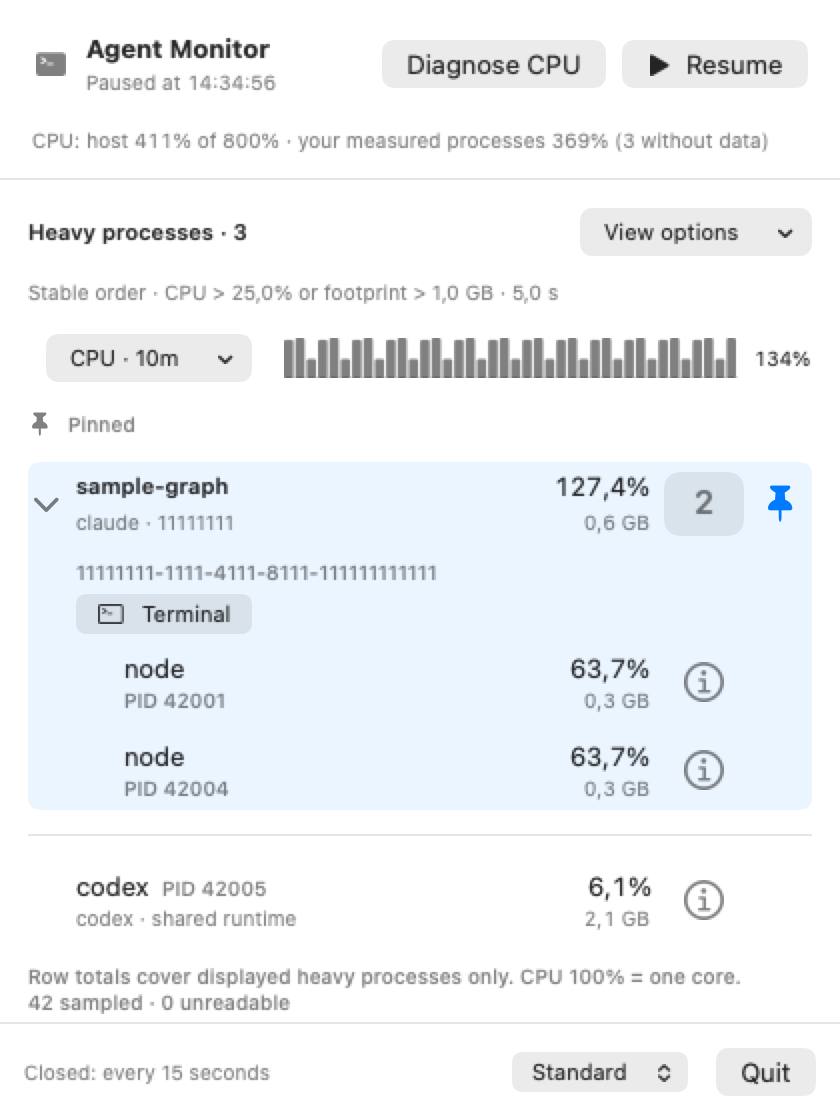
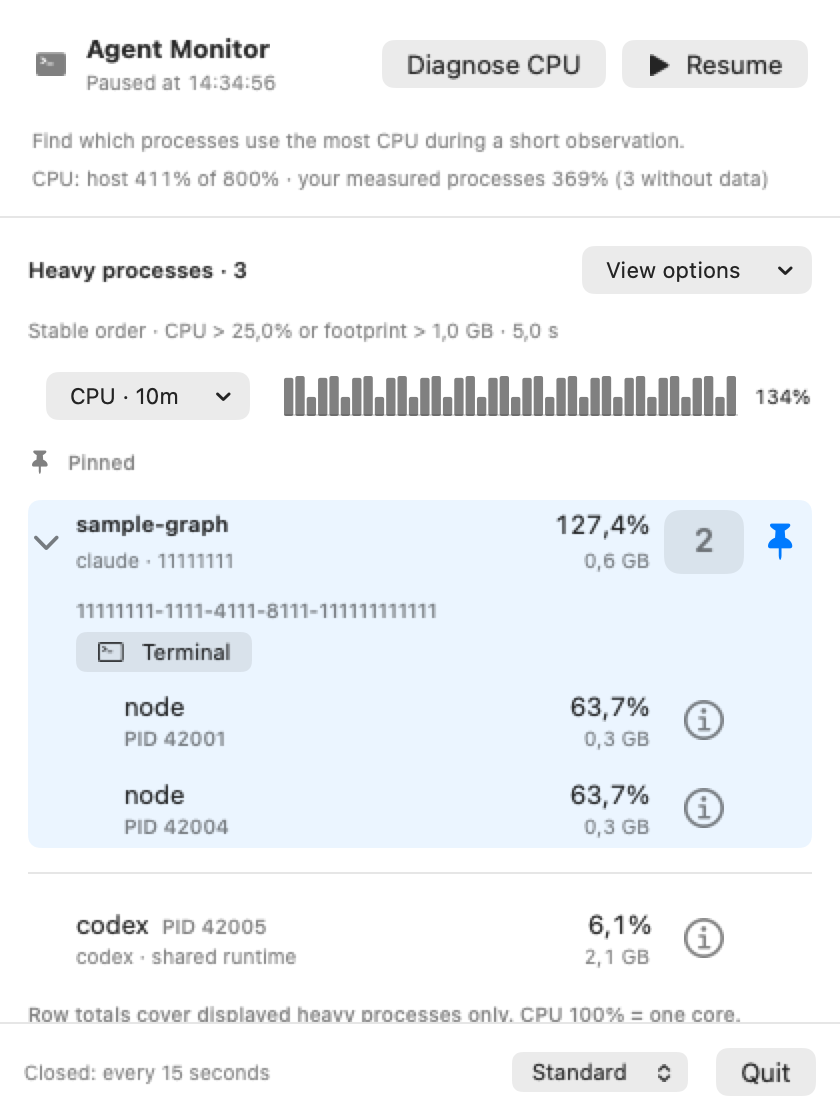
feat(diagnosis): explain results and copy completed native reports
Keep the copied report tied to the completed observation, including identity and coverage evidence. Copying is explicit and performs no further collection or actions.

diff --git a/Sources/AgentMonitorPresentation/DiagnosisViewState.swift b/Sources/AgentMonitorPresentation/DiagnosisViewState.swift
@@ -7,6 +7,12 @@ public struct DiagnosisViewState: Equatable, Sendable {
     public internal(set) var content: [ReportLine] = []
     public var isVisible: Bool { phase != .hidden }
 
+    public static let purpose = "Find which processes use the most CPU during a short observation."
+    public static let whenToRun =
+        "Run while the slowdown is happening; work that ended earlier cannot be recovered."
+    public static var startHelp: String { "\(purpose) \(whenToRun) \(help)" }
+    public static let interpretation =
+        "Start with the largest CPU-seconds contributors. Use their PID and session evidence to find the workload in the live table; check coverage and Monitor helper flags before drawing conclusions."
     public static let help =
         "Measures from now: three one-second waits plus scan time; provider lookup may add up to three seconds per queried provider."
     public static let keyHint = "d CPU diagnosis"
@@ -25,7 +31,11 @@ public struct DiagnosisViewState: Equatable, Sendable {
     public var lines: [ReportLine] {
         switch phase {
         case .hidden: []
-        case .collecting: [ReportLine(Self.help), ReportLine("Window starts at invocation.", style: .muted)]
+        case .collecting:
+            [
+                ReportLine(Self.purpose), ReportLine(Self.whenToRun), ReportLine(Self.help),
+                ReportLine("Window starts at invocation.", style: .muted),
+            ]
         case .completed: content
         case .failed: [ReportLine(DiagnosisText.collectionFailure, style: .failure)]
         case .cancelled:
@@ -34,10 +44,16 @@ public struct DiagnosisViewState: Equatable, Sendable {
         }
     }
 
+    public var reportText: String? {
+        guard phase == .completed else { return nil }
+        return content.map(\.text).joined(separator: "\n")
+    }
+
     static func resultLines(_ value: CPUDiagnosis) -> [ReportLine] {
         [
             ReportLine(
-                "Window started at invocation; result stays fixed until rerun or dismissal.", style: .muted)
+                "Window started at invocation; result stays fixed until rerun or dismissal.", style: .muted),
+            ReportLine(Self.interpretation),
         ]
             + DiagnosisText.lines(value, includingHelperFlags: true).map { ReportLine($0) }
             + [

diff --git a/Tests/AgentMonitorMenuBarTests/MenuBarDiagnosisTests.swift b/Tests/AgentMonitorMenuBarTests/MenuBarDiagnosisTests.swift
@@ -163,3 +163,46 @@ private actor NativeDiagnosisGate {
     if phase == .collecting || phase == .cancelled { await gate.release(try await menuBarDiagnosisFixture()) }
     await model.stop()
 }
+
+@Test @MainActor func diagnosisCopiesOnlyTheCompletedFixedReportAndClearsStatusOnRerun() async throws {
+    let gate = NativeDiagnosisGate()
+    let model = MenuBarModel(diagnosisSource: { try await gate.run() }, source: { _, _, _, _ in })
+    var copied: [String] = []
+    func copy() -> Bool {
+        model.copyDiagnosisReport(using: {
+            copied.append($0)
+            return true
+        })
+    }
+    #expect(!copy())
+    model.open()
+    #expect(model.beginDiagnosis())
+    await gate.waitUntilStarted()
+    #expect(!copy())
+    #expect(copied.isEmpty)
+    await gate.release(try await menuBarDiagnosisFixture())
+    await model.diagnosis.waitForCompletion()
+    #expect(copy())
+    let text = try #require(copied.first)
+    #expect(text == model.diagnosis.state.reportText)
+    #expect(text.contains("42001/1 [Monitor helper]"))
+    #expect(text.contains("CPU diagnosis:") && text.contains("Host coverage:"))
+    #expect(text.contains("not proof of current use"))
+    #expect(text.contains("CPU-s"))
+    #expect(model.diagnosisCopyStatus == "Copied")
+    let failedCopy = model.copyDiagnosisReport(using: { _ in false })
+    #expect(!failedCopy)
+    #expect(model.diagnosisCopyStatus == "Copy failed")
+    #expect(model.beginDiagnosis())
+    await gate.waitUntilStarted()
+    #expect(model.diagnosisCopyStatus == nil)
+    #expect(!copy())
+    model.diagnosis.cancel()
+    #expect(!copy())
+    await gate.release(try await menuBarDiagnosisFixture())
+    await model.diagnosis.waitForCompletion()
+    model.close()
+    #expect(!copy())
+    #expect(copied.count == 1)
+    await model.stop()
+}

diff --git a/Sources/AgentMonitorMenuBar/MenuBarView.swift b/Sources/AgentMonitorMenuBar/MenuBarView.swift
@@ -41,7 +41,7 @@ struct MenuBarView: View {
                             !model.isOpen || model.report.actionPanel != nil
                                 || model.diagnosis.state.isRunning
                         )
-                        .help(DiagnosisViewState.help)
+                        .help(DiagnosisViewState.startHelp)
                     Button(
                         model.report.frozen ? "Resume" : "Pause",
                         systemImage: model.report.frozen ? "play.fill" : "pause.fill"
@@ -52,6 +52,10 @@ struct MenuBarView: View {
             }
             .padding()
             if !model.diagnosis.state.isVisible {
+                Text(DiagnosisViewState.purpose)
+                    .font(.caption).foregroundStyle(.secondary)
+                    .fixedSize(horizontal: false, vertical: true)
+                    .padding(.horizontal).padding(.bottom, 6)
                 Text(CPUContext.text(model.report.snapshot?.cpuAccounting))
                     .font(.caption).foregroundStyle(.secondary).monospacedDigit()
                     .fixedSize(horizontal: false, vertical: true)
@@ -64,7 +68,9 @@ struct MenuBarView: View {
                         MenuBarKeyboardHelp { model.showsKeyboardHelp = false }
                     }
                     if model.diagnosis.state.isVisible {
-                        MenuBarDiagnosisView(diagnosis: model.diagnosis)
+                        MenuBarDiagnosisView(
+                            diagnosis: model.diagnosis, copyStatus: model.diagnosisCopyStatus,
+                            onCopy: { model.copyDiagnosisReport() })
                     } else if let panel = model.report.actionPanel {
                         actionPanel(panel)
                     } else {

diff --git a/Sources/AgentMonitorMenuBar/MenuBarModel.swift b/Sources/AgentMonitorMenuBar/MenuBarModel.swift
@@ -26,6 +26,7 @@ final class MenuBarModel {
     private(set) var lastActionResult: ActionResult?
     private(set) var savedMessage: SavedMessage?
     private(set) var messageCopyStatus: String?
+    private(set) var diagnosisCopyStatus: String?
     private(set) var liveIcon = true
     private(set) var indicator = MenuBarIndicator()
     @ObservationIgnored var onIndicatorChange: (() -> Void)?
@@ -48,11 +49,20 @@ final class MenuBarModel {
         diagnosis = CPUDiagnosisController(source: diagnosisSource)
         self.actions = actions
         self.source = source
+        diagnosis.onChange = { [weak self] _ in self?.diagnosisCopyStatus = nil }
     }
 
     @discardableResult func beginDiagnosis() -> Bool {
         guard isOpen, report.actionPanel == nil else { return false }
         return diagnosis.start()
+    }
+
+    @discardableResult
+    func copyDiagnosisReport(using write: @MainActor (String) -> Bool = MenuBarClipboard.copy) -> Bool {
+        guard isOpen, let text = diagnosis.state.reportText else { return false }
+        let copied = write(text)
+        diagnosisCopyStatus = copied ? "Copied" : "Copy failed"
+        return copied
     }
 
     func start() {

diff --git a/Sources/AgentMonitorMenuBar/MenuBarDiagnosisView.swift b/Sources/AgentMonitorMenuBar/MenuBarDiagnosisView.swift
@@ -3,6 +3,8 @@ import SwiftUI
 
 struct MenuBarDiagnosisView: View {
     @Bindable var diagnosis: CPUDiagnosisController
+    let copyStatus: String?
+    let onCopy: () -> Bool
 
     var body: some View {
         VStack(alignment: .leading, spacing: 12) {
@@ -15,7 +17,15 @@ struct MenuBarDiagnosisView: View {
                 } else {
                     Button("Run again") { diagnosis.start() }
                         .disabled(diagnosis.state.isRunning)
-                        .help(DiagnosisViewState.help)
+                        .help(DiagnosisViewState.startHelp)
+                }
+            }
+            if diagnosis.state.phase == .completed {
+                HStack {
+                    Button("Copy report", systemImage: "doc.on.doc") { _ = onCopy() }
+                        .controlSize(.small)
+                        .help("Copy the full fixed report, including identities and measurement coverage.")
+                    if let copyStatus { Text(copyStatus).font(.caption).foregroundStyle(.secondary) }
                 }
             }
             ForEach(Array(diagnosis.state.lines.enumerated()), id: \.offset) { entry in

diff --git a/Tests/AgentMonitorCLITests/InteractiveDiagnosisTests.swift b/Tests/AgentMonitorCLITests/InteractiveDiagnosisTests.swift
@@ -116,6 +116,23 @@ import Testing
         #expect(!lines.contains { $0.text.contains("cleanup in progress") })
     }
 
+    @Test func guidanceExplainsWhenToRunAndHowToReadTheFixedResult() async throws {
+        let controller = CPUDiagnosisController(source: { diagnosisPresentationFixture(available: true) })
+        controller.start()
+        let collecting = controller.state.lines.map(\.text).joined(separator: "\n")
+        #expect(collecting.contains("slowdown"))
+        #expect(collecting.contains("earlier"))
+        #expect(controller.state.reportText == nil)
+        await controller.waitForCompletion()
+        let copied = try #require(controller.state.reportText)
+        #expect(copied.contains("CPU-seconds"))
+        #expect(copied.contains("live table"))
+        #expect(copied.contains("coverage"))
+        #expect(copied.contains(String(UInt64.max)))
+        controller.dismiss()
+        #expect(controller.state.reportText == nil)
+    }
+
     @Test func stopCancelsAndWaitsForOwnedWork() async {
         let gate = DiagnosisGate()
         let controller = CPUDiagnosisController(source: { try await gate.run() })

diff --git a/Sources/AgentMonitorPresentation/AgentGuide.swift b/Sources/AgentMonitorPresentation/AgentGuide.swift
@@ -113,6 +113,8 @@ public enum AgentGuide {
             [/] scroll details; -/+ shrink/grow details by 5 percentage points (10–90%).
             0 minimizes; 9 maximizes; = restores the chosen split (initially 50%).
             d starts CPU diagnosis immediately: three one-second waits plus scans and up to three seconds per queried provider; each run may query again.
+            \(DiagnosisViewState.purpose) \(DiagnosisViewState.whenToRun)
+            \(DiagnosisViewState.interpretation)
             Diagnosis keeps a fixed CPU-seconds ranking, separate from live values/history. It can run while paused; the live view stays paused.
             In diagnosis: x cancels, Esc returns, d runs again (discarding the old result), ↑/↓ and Page Up/Down scroll. Rerun waits for cleanup; below 40x8 only cancellation, Back and quit remain available.
             Monitor helper flags identify observed descendants of this instance; other instances and unobserved/reparented helpers may be unflagged. Totals include their CPU; diagnosis rows have no actions.

diff --git a/docs/architecture.md b/docs/architecture.md
@@ -127,13 +127,15 @@ The native **Diagnose CPU** control and TUI `d` start a fresh finite investigati
 
 Native control help, the collecting state and `guide tui` explain three one-second waits plus scan time and up to three seconds of lookup per queried provider. The terminal footer uses the concise `d CPU diagnosis` hint; it does not disclose duration before invocation. Each run can query providers independently of live monitoring's once-a-minute listing cadence. Collecting, completed, failed and cancelled are distinct states. A failed required scan shows `collectionFailed` with no partial result; missing counters and failed lookups remain valid partial results with shared explanations.
 
+Shared guidance explains the purpose and when to run diagnosis: investigate a slowdown while it is happening, because prior exited work cannot be recovered. Result guidance starts with CPU-seconds ranking, locating the PID/session in the live table and checking coverage and helper evidence before drawing conclusions. The native panel shows the purpose beside its start control, and the collecting state, results and TUI guide reuse the presentation wording.
+
 The scrollable fixed result includes observation timestamps, CPU-seconds, mean/peak CPU, coverage, exact PID/start identity, latest measured footprint and available attribution evidence. It qualifies launch origin and shared daemons, and explains absence at enrichment as not proof of exit. The heading pairs population `windowCPUPercent` with the duration-weighted host mean and valid host intervals out of three. Unavailable host CPU is “No data”; absent logical CPU count omits capacity and shows `hostCapacityChanged`. No remainder is computed. Results and retained identities have no terminate, message or focus actions.
 
 `CPUDiagnosisSession` can receive the running interface's monitor PID independently of excluded PIDs. Core flags a contributor as `isMonitorHelper` when its observed parent PID equals that live PID or its existing observed ancestry reaches an exact lifetime with that evidence. The flag persists per PID/start identity for the finite window, including reparenting and departure; reuse does not inherit it. The excluded monitor needs no graph node or metadata read. Detection uses existing parent links and per-lifetime window state, without a second ancestry-retention model. Unobserved/reparented helpers and other monitor instances may remain unflagged. The flag does not change CPU totals, provider attribution, CLI text or either JSON schema.
 
 `CPUDiagnosisController` in presentation owns one cancellable finite run per interface. Starting discards the previous result immediately; failure or cancellation never restores it. Cancel immediately shows cancelled state; dismissal immediately hides and discards it. Both invalidate publication while owned work drains, and another run stays disabled until completion. A generation guard rejects late results, and shutdown cancels and awaits owned work. The injected source returns the core result; the default and CLI both use `CPUDiagnosisSession.collectLocal` to create an independent native diagnosis off the main actor, with the same monitor exclusion and reader-initialization failure mapping. `DiagnosisViewState` publishes sanitized display lines, separate from live report/history state, and reuses diagnosis explanations and formatting with helper flags and coverage qualifications.
 
-Ordinary sampling, history, native icon, session totals, thresholds, grouping, pins and live selection remain independent. Diagnosis can start while the report is frozen/paused without resuming it; Back restores that state or the latest unpaused report. Results are in-memory only, retained until rerun or dismissal. Automatic/background reruns, rolling process history, exports, new settings and historical-row actions are excluded. Native dismissal/detachment and TUI viewport controls are defined in their interface contracts below.
+Ordinary sampling, history, native icon, session totals, thresholds, grouping, pins and live selection remain independent. Diagnosis can start while the report is frozen/paused without resuming it; Back restores that state or the latest unpaused report. Results are in-memory only, retained until rerun or dismissal. The native completed view offers **Copy report**, an explicit plain-text clipboard copy of the fixed report including full identities, timestamps, coverage, attribution qualifications and helper flags. It starts no collection or actions; copying reports success/failure, and that status resets with the next diagnosis state. Other states have no copyable result. File exports, automatic/background reruns, rolling process history, new settings and historical-row actions are excluded. Native dismissal/detachment and TUI viewport controls are defined in their interface contracts below.
 
 The [local assessment](research/existing-solutions.md#interactive-diagnosis-assessment--2026-10-17) records alternatives and evidence limits. Lowering the existing live interval to one second is sufficient for fresher latest-interval values, but does not retain departed contributors or rank cumulative CPU-seconds. Concurrent diagnosis adds scans and possible provider work. Usability, live cancellation latency and overhead alongside monitoring remain unverified; no responsiveness or energy claim follows from fake-source tests or offscreen rendering.
 

diff --git a/docs/usage.md b/docs/usage.md
@@ -224,7 +224,11 @@ The menu bar icon uses three thick bars for the filtered processes’ CPU as a s
 
 The smaller monochrome badge at the upper left, separated from the shortened bars by a clear gap, shows the **current number of heavy agent processes**, including **0** when none are heavy. The icon and menu-bar item stay the same width; counts above 99 display **99+**, with the exact count in the right-click menu and accessibility label. A process counts once when it appears in the filtered findings. The applied CPU and footprint thresholds appear in the right-click menu. Changes to filters take effect on the next displayed sample, including when paused. Sustained heavy processes stay counted; the count falls when they become quiet or leave the observed sample. The bars never invert to announce an event. macOS supplies contrasting template colors for the system’s light/dark menu bar. There is no flashing, animation or extra sampling for the badge.
 
+Use **Diagnose CPU** while a slowdown is happening to find which processes consume the most CPU during a new short window. It cannot recover work that ended before you started. Start with the largest CPU-seconds contributors, then use their PID and session evidence to locate the workload in the live table. Check coverage and helper flags before attributing the load to an agent.
+
 **Diagnose CPU** starts a separate finite investigation immediately, with three one-second waits plus scanning and provider-lookup time. Results rank the top ten by measured CPU-seconds and retain earlier contributors; they do not change the live table, history or icon. You can start while paused without resuming the live view. **Cancel** leaves the collecting state while owned work finishes; **Run again** waits for cleanup, discards the previous result and starts a fresh window. Each run may query providers again, independently of live monitoring’s listing cadence. **Back**, popover dismissal and detached-window closure discard the result; dragging the panel into a detached window keeps the run. Diagnosis rows have no actions. **Monitor helper** marks observed descendants of this instance; unobserved/reparented helpers and other monitor instances may remain unflagged. Their CPU stays in the totals.
+
+For a completed diagnosis, **Copy report** copies the full readable report, including identities, timestamps, coverage and attribution qualifications, to the clipboard. It shows **Copied** or **Copy failed** and does not collect again or perform actions. Copying is unavailable while collecting, after cancellation/failure, or after dismissal.
 
 Click outside the panel to dismiss it. The live icon samples every **15 seconds** while closed and uses your selected interval while open; the CPU value averages the actual time between samples. Reopening shows the latest snapshot immediately and resumes live table updates. Turn off **View options → Live menu bar icon** for a static three-bar icon and no closed-panel sampling; reopening in this mode takes a fresh baseline and waits one interval for measurements. The choice lasts until quit. Closing always cancels pending actions; a send already handed off may still have been accepted, so check any retained outcome before retrying. **Quit** exits and drains owned tasks.
 

diff --git a/README.md b/README.md
@@ -16,7 +16,7 @@ This README describes the current source build, which can be ahead of the [lates
 
 - **Live terminal view** — refresh every 5 seconds by default; watch CPU and memory usage, sort processes, and open details without leaving your terminal. Stable order keeps existing rows in place and appends newcomers. Change the update interval or freeze the view while you look.
 - **Native menu bar app** — open a compact macOS panel for resource usage and session actions, with Pause/Resume and a separate **Diagnose CPU** investigation; three bold load bars get a quick startup sample, then update every 15 seconds while the panel is closed. Available from a source build.
-- **Finite CPU diagnosis** — start with **d** in the TUI or **Diagnose CPU** in the Mac app. Rank a new observation window by measured CPU-seconds and retain contributors that leave before it ends, without changing live-table values.
+- **Finite CPU diagnosis** — start with **d** in the TUI or **Diagnose CPU** in the Mac app. Rank a new observation window by measured CPU-seconds and retain contributors that leave before it ends, without changing live-table values. The Mac app can copy the completed report for further investigation.
 - **Compact history** — one strip for agent CPU, memory or heavy-process count, covering the last 10 minutes or one hour in both live views, updated at most every 15 seconds.
 - **Pinned inspection** — keep a process or session at the top while its values update, in both native and terminal views. Missing targets stay marked until unpinned.
 - **Session grouping** — bring related heavy processes together and see their combined resource usage.
